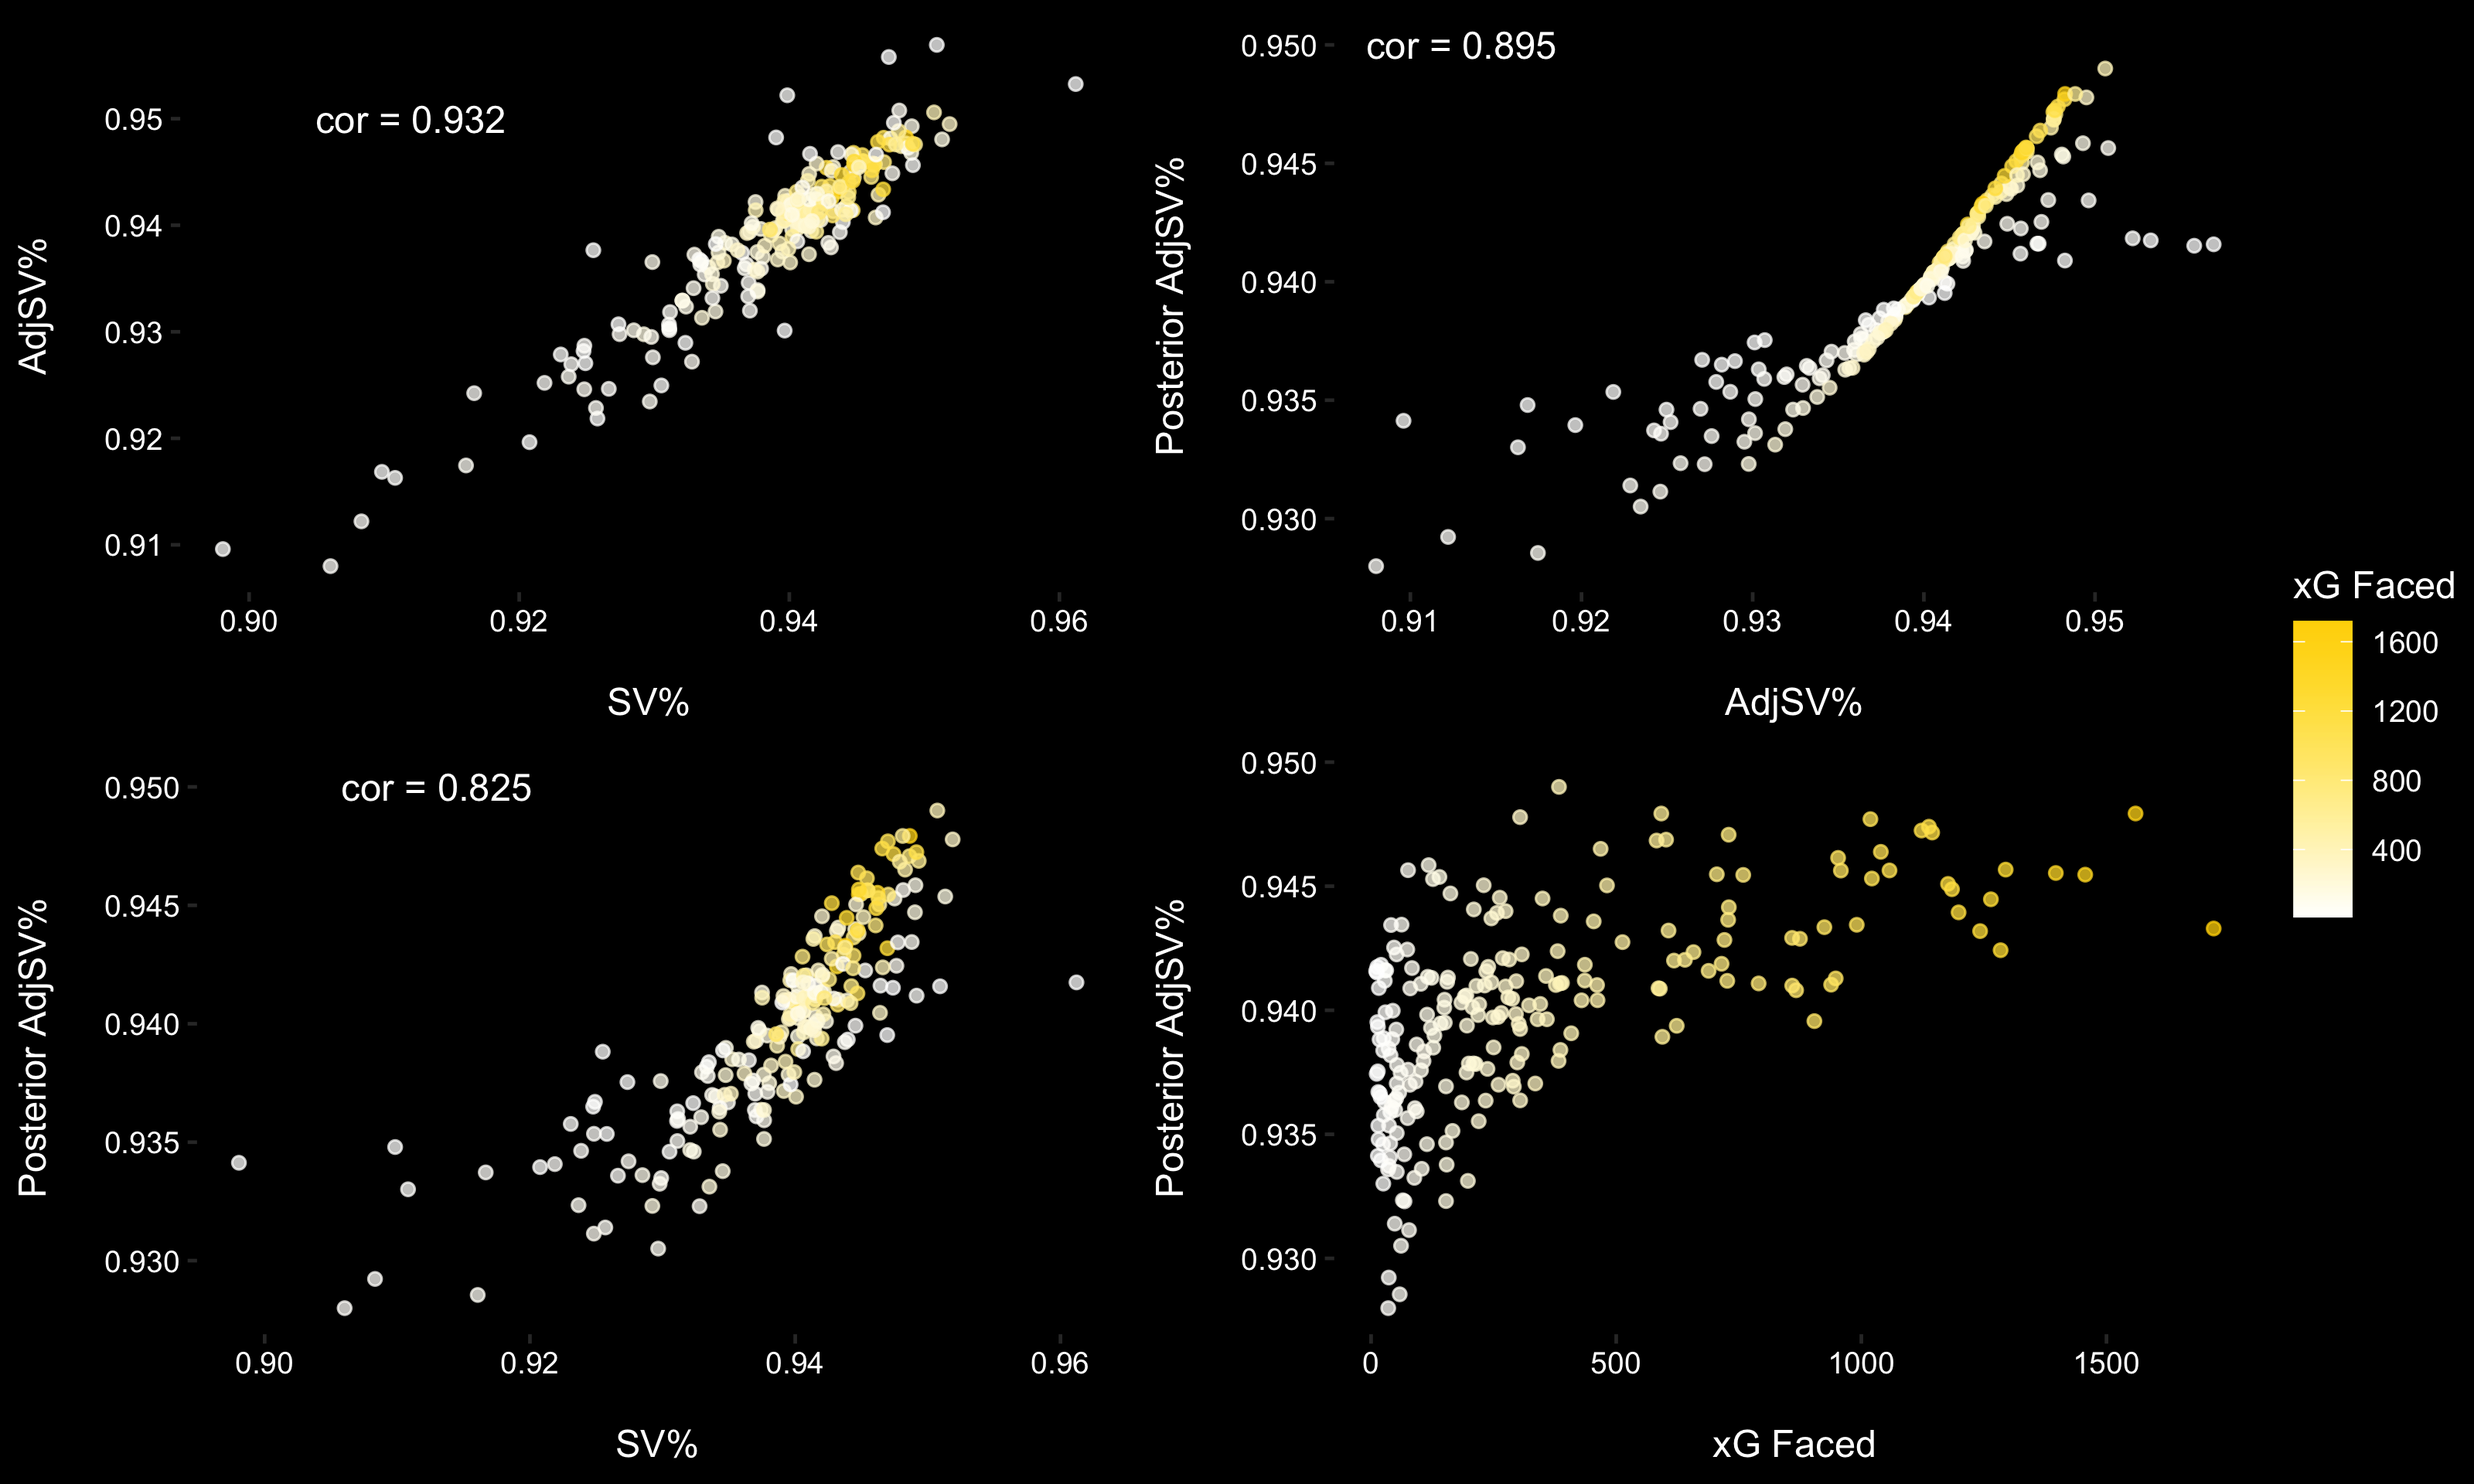
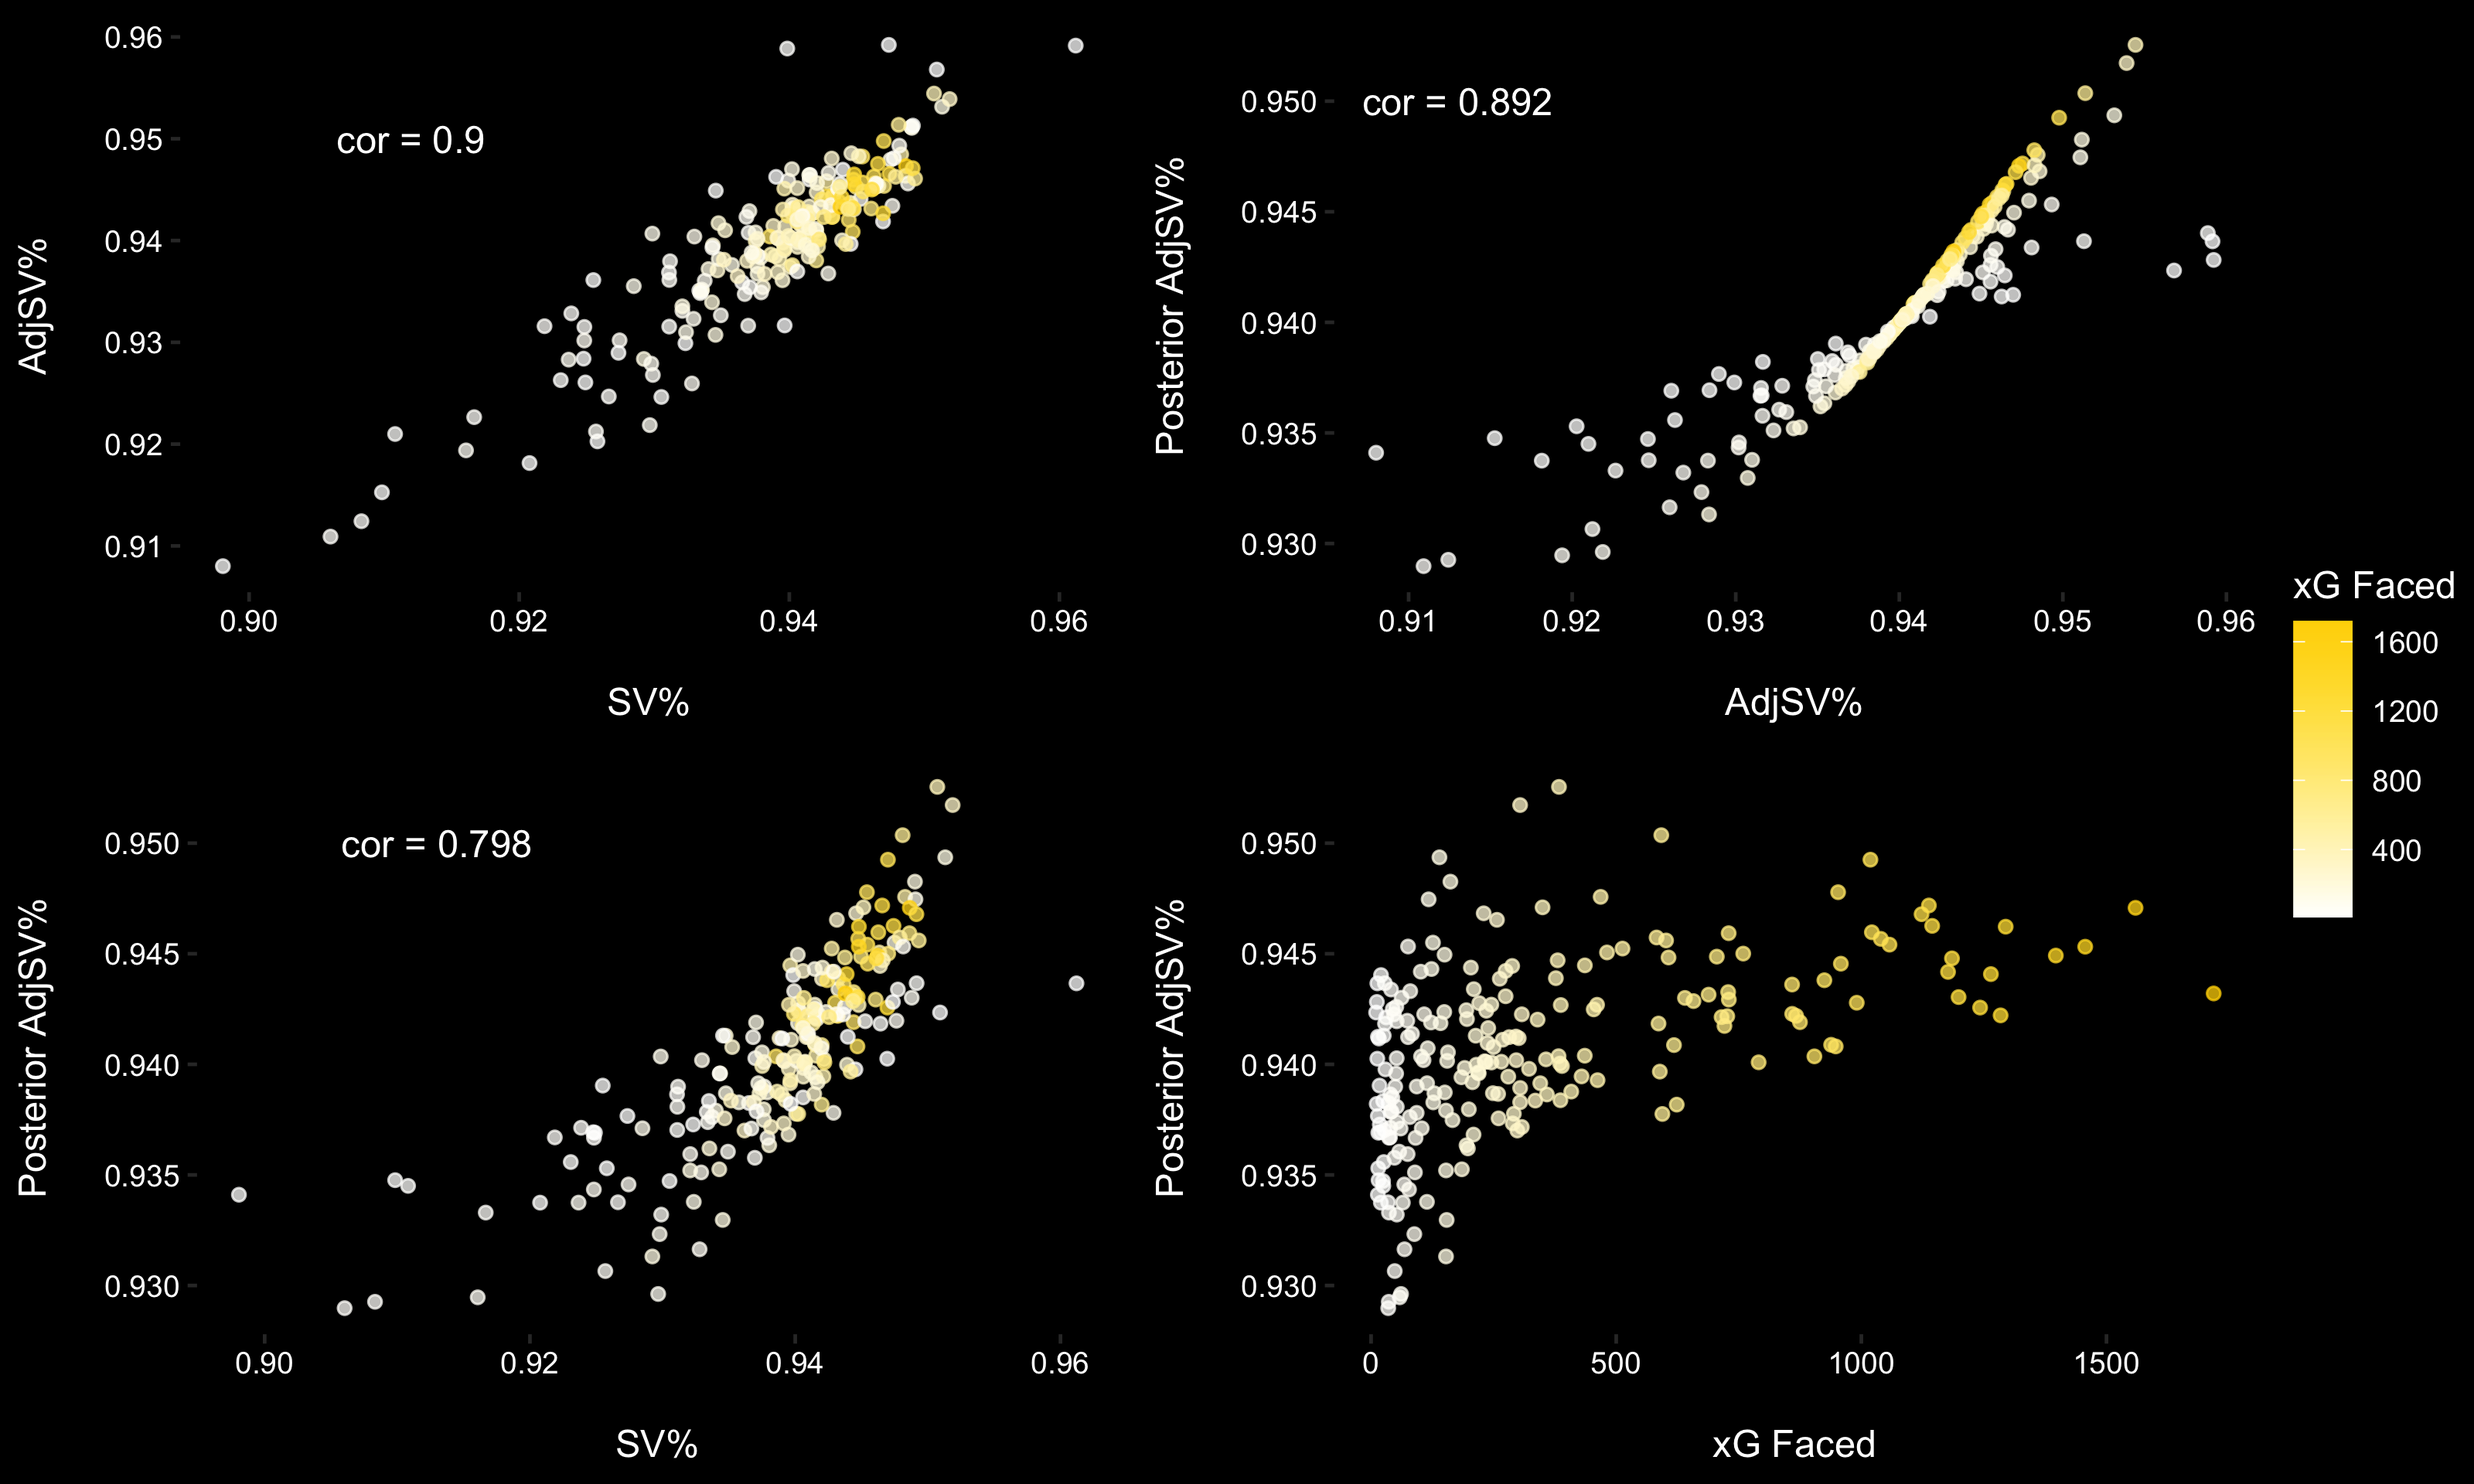
writing

diff --git a/_posts/2023-05-24-goalie-performance-3.md b/_posts/2023-05-24-goalie-performance-3.md
@@ -22,42 +22,64 @@ I'm going to address the second and third points in this post, but in a sidewind
 <p>
 <h5>Exploring Experience</h5>
 Let's start the exploration by defining our population. There aren't many NHL goalie careers, so we need to be greedy and take as many as we can for the analysis at hand. When we talk about experience, we're referencing the number of shots faced. We don't know how many shots a goalie faced before 2007, so any goalie playing before then has to be removed. The converse is true for the 2022-2023 season. 
-
-Here's a short summary of the experience dataset:
-    - Goalie population drops from 315 to 140.
-    - Harmonic mean of career shots faced rises from 12,690 to 14,568.
-    - Harmonic mean of AdjSV% stays at .939
 </p>
 <p>
-I wanted to start by sharing an interesting (though probably intuitive) finding. Below is the cumulative distribution function for goalie career seasons played.
+Here's a short summary of the experience dataset:
+    - Goalie population drops from 315 to 140.
+    - Harmonic mean of career shots faced rises from 12,690 to 14,568 (mean drops from 4,198 to 3,225).
+    - Harmonic mean of AdjSV% stays at .939 (mean drops from .932 to .927).
+    - Mean of career shots faced drops from 4,198 to 3,225.
+    - Mean of AdjSV% drops from .932 to .927.
+</p>
+<p>
+Another perspective on time is the number of seasons played. This measure differs from shots for goalies who play more games per season (starters). Let's start by contextualizing just how short most goalie careers are with a plot of the cumulative distribution function for goalie career seasons played.
 </p>
 <p>
 <div style="text-align: center"> <img src="https://spazznolo.github.io/figs/goalie-six-one.png" width="60%" length="150"/></div>
 </p>
 <p>
 Some thoughts:
-    - 47% of goalies played only one season.
+    - 42% of goalies played only one season.
     - 74% of goalies played five seasons or less.
     - 90% of goalies played twelve seasons or less.
 </p>
 <p>
-adfadfa
+It is difficult to understands a goalie's path by looking at their save percentage or shots faced in isolation. What's nice about the empirical Bayesian method introduced in the previous posts - it considers these measures at the same time. Moreover, we can repeatedly re-evaluate a goalie's pAdjSV% after each shot they face. We can then plot this posterior over shots to get a sense of a goalie's career path. In order to extract more insight from this, let's group goalies by their career shots faced, like this:
+</p>
+<p>
+Goalies facing:
+    - less than 300 shots -> -0300.
+    - more than 300 shots, but less than 1,500 -> -1500.
+    - more than 1,500 shots, but less than 6,000 -> -6000.
+    - more than 6000 -> 6000+.
 </p>
 <p>
 <div style="text-align: center"> <img src="https://spazznolo.github.io/figs/goalie-six-four.png" width="65%" length="165"/></div>
 </p>
 <p>
 Some thoughts:
-    - Nearly every goalie [give %] who faces -6000 shots ends his career with a pAdjSV% below average.
+    - Nearly every goalie (77.1%) who faces -6000 shots ends his career with a pAdjSV% below expected.
     - Goalies facing 1500+ but -6000 seem to fade as their career progresses.
     - These goalies tend to be backups, facing ~600-1000 shots a season.
     - This fade could partly be due to aging effects.
 </p>
 <p>
+To get a clearer sense of the dynamics described above, let's group goalies by the number of shots they faced and calculate the average pAdjSV% through each shot faced.
+</p>
+<p>
 <div style="text-align: center"> <img src="https://spazznolo.github.io/figs/goalie-six-five.png" width="65%" length="165"/></div>
 </p>
 <p>
-An important dimension is missing in the above data which could partially explain the unintuitive result where goalies who face < 5000 shots take a significant early lead in pAdjSV% over goalies who face 5000+ shots - age. 
+Some thoughts:
+    - The effects are much clearer here.
+    - There isn't much to glean from goalies facing -300 shots.
+    - These goalies do not play again in the NHL for reasons outside thier play in the NHL (lower league play).
+    - Goalies facing -1500 shots fade quickly. They are given a shot and fail acutely.
+    - Goalies facing -6000 shots start as the best group through the first 1,000 shots, then fade.
+    - This seemingly unintuitive results is likely due to randomness, and, more interestingly, age.
+</p>
+<p>
+It's time to account for age.
 </p>
 <p>
 <h5>Exploring Age</h5>
@@ -66,8 +88,8 @@ I scraped hockey-reference for each goalie's date of birth (code available <a hr
 <p>
 Our analysis population changes as follows:
     - Goalie population drops from 315 to 308.
-    - Harmonic mean of career shots faced rises from 12,690 to 12,721.
-    - Harmonic mean of AdjSV% stays at .939
+    - Harmonic mean of career shots faced rises from 12,690 to 12,721 (mean rises from 4,198 to 4,286).
+    - Harmonic mean of AdjSV% stays at .939 (mean rises from .932 to .933).
 </p>
 <p>
 Let's start by simply grouping shots into bins by goalie age, rounded to the first decimal (ex: 26.0, 26.1, etc.), and then calculating the group-wide save percentage. Points belonging to groups with fewer shots pale in comparison to groups with many shots. Here's what that looks like:
@@ -109,17 +131,23 @@ Let's revisit the unintuive plot comparing pAdjSV% over goalie careers, grouped 
 </p>
 <p>
 Some thoughts:
-    - Goalies who face -5000 shots are about 1.5 years older throughout their career.
+    - Goalies who face -6000 shots are about 1.5 years older than 6000+ goalies throughout their career.
     - This difference obviously includes the span from age 23 to roughly 27.
     - This is precisely the age range in which goalies seem to be improving in AdjSV%.
     - We need to adjust for this.
 </p>
 <p>
 <h5>Adjusting for Age</h5>
-What do we mean by "adjusting" for age? Well, as a goalie progresses through his life, our expectations of him change. We do not expect a 15 year old goalie to play well in the NHL; we do not expect a 45 year old play well either. In between this, our expectations of the goalie increases up to a certain point (shown above to potentially be around age 27), and then decreases again for, well, forever. It follows that if a goalie starts his NHL career at 18 and faces 1000 shots, we have a different expecation of how many saves he should make than if he faced those shots starting his career at age 25. This is a definite shortcoming of the empirical Bayes strategy outlined in the 4th post.
+What do we mean by "adjusting" for age? Well, as a goalie progresses through his life, our expectations of him change. We do not expect a 15 year old goalie to play well in the NHL; we do not expect a 45 year old play well either. In between this, our expectations of the goalie increases up to a certain point (shown above to potentially be around age 27), and then decreases again for, well, forever. It follows that if a goalie starts his NHL career at 18 and faces 1000 shots, we have a different expectation of how many saves he should make than if he faced those shots starting his career at age 25. This is a definite shortcoming of the empirical Bayes strategy outlined in the 4th post.
 </p>
 <p>
-adfadf
+The cleanest way to adjust for age would be to bake it into the already created adjustment for the probability of a shot being a goal. Taking the smoothed age curve presented above, we set the peak (age 27) as the standard and adjust for all other ages, so that, for example, an xFSV% of 0.940 at age 27 is 0.94000 - 0.00118 = 0.93882 at age 23 and 0.94000 - 0.00513 = 0.93487 at age 38.
+</p>
+<p>
+Fenwick Save Percentage (FSV%) = 1 - (Goals Against / Fenwick Shots Against)<br>
+<b>Age-Adjusted</b> Expected Fenwick Save Percentage (AdjxFSV%) = 1 - (Expected Goals Against / Fenwick Shots Against) - Adjustment<br>
+Median Save Percentage (MSV%) = Median of Goalie (20+ xG faced) Career Save Percentage<br>
+<b>Adjusted Save Percentage (AdjSV%) = MSV% + (FSV% - AdjxFSV%)</b>
 </p>
 <p>
 Code available here: <a href="https://github.com/spazznolo/goalie-consistency/blob/main/posts/post-6.R">https://github.com/spazznolo/goalie-consistency/blob/main/posts/post-6.R</a>
